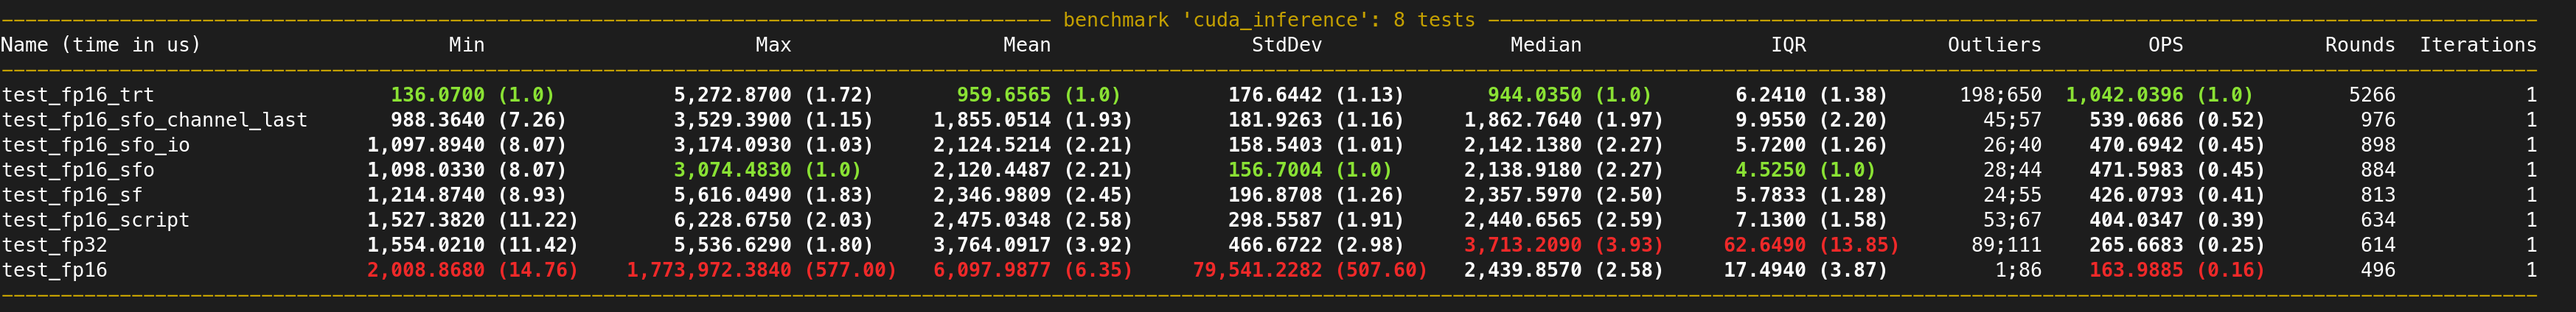
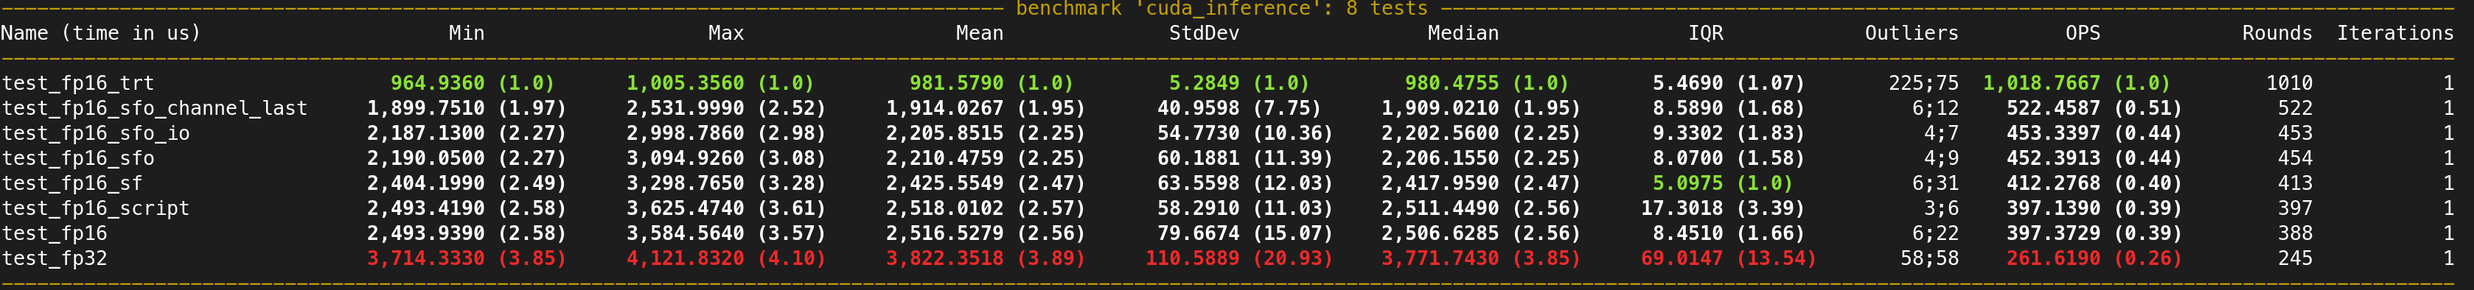
Make stuff synchronized

diff --git a/utils.py b/utils.py
@@ -48,11 +48,15 @@ def get_tensor(fp_16=False, channel_last=False, batch_size=8):
 
 @torch.no_grad()
 def infer(model, tensor):
-    return torch.softmax(model(tensor), dim=1)
+    ans = torch.softmax(model(tensor), dim=1)
+    torch.cuda.synchronize()
+    return ans
 
 @torch.inference_mode()
 def infer_o(model, tensor):
-    return torch.softmax(model(tensor), dim=1)
+    ans = torch.softmax(model(tensor), dim=1)
+    torch.cuda.synchronize()
+    return ans
 
 def warmup(model, tensor, times=3):
     for i in range(times):
